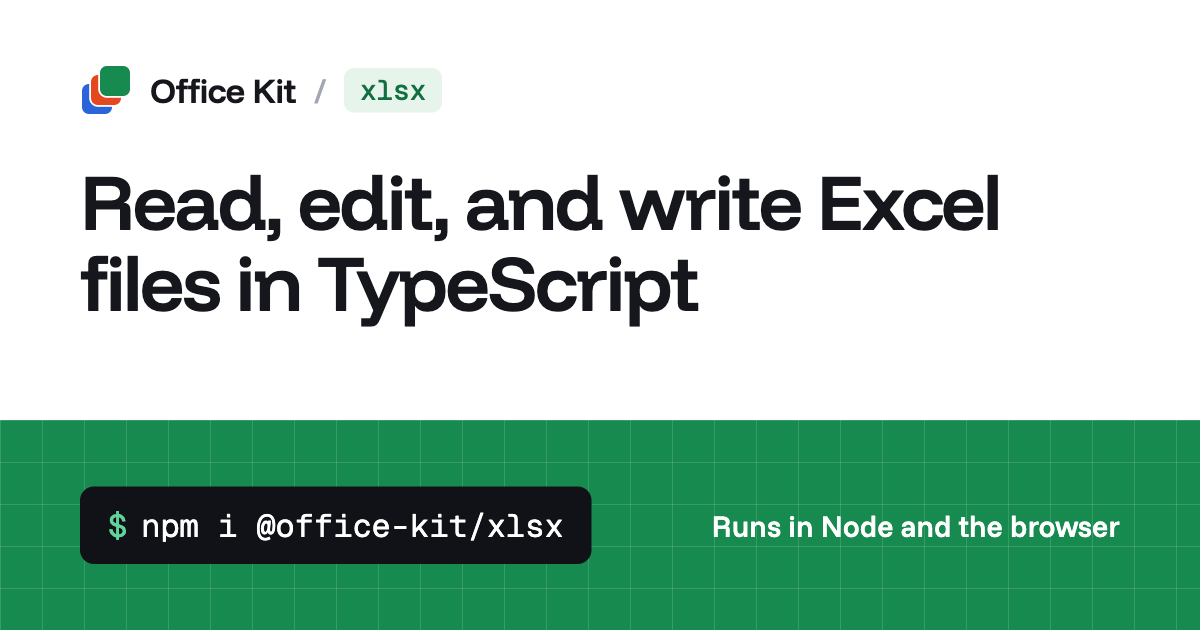
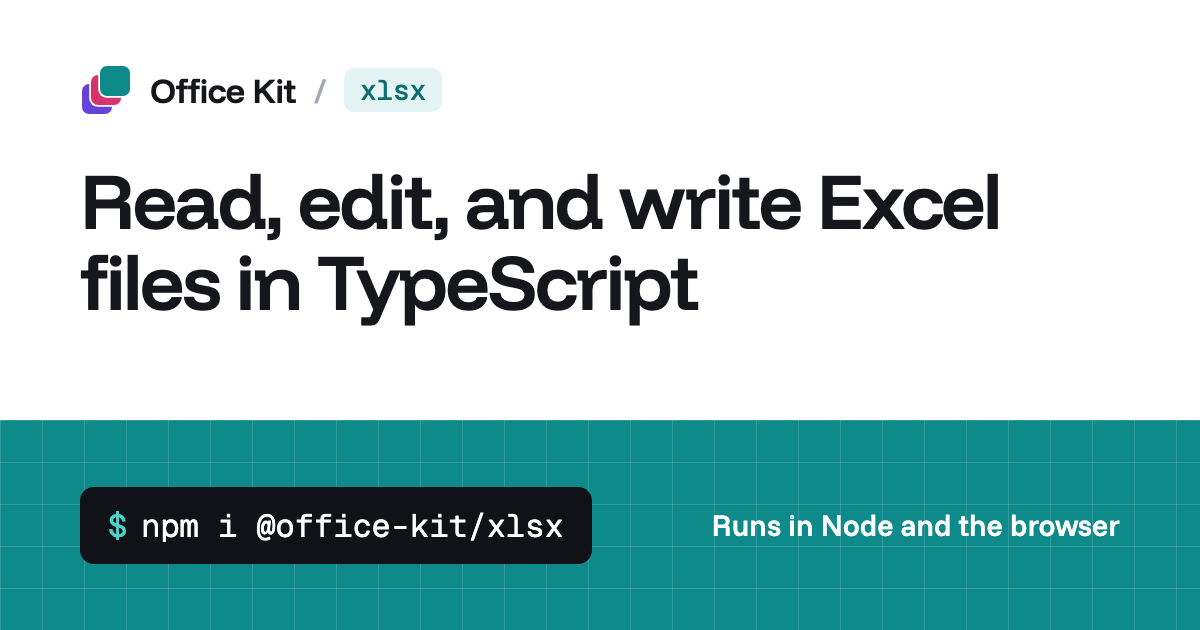
chore(site): pick up the new office-kit brand colors (#296)

diff --git a/site/src/lib/components/SheetGrid.svelte b/site/src/lib/components/SheetGrid.svelte
@@ -173,7 +173,7 @@
     --sheet-rule-strong: #c9cdd6;
     --sheet-ink: #15171c;
     --sheet-ink-2: #5b616e;
-    --sheet-select: #168a4f;
+    --sheet-select: #0f8a8a;
     --sheet-row-h: 28px;
     --sheet-gutter-w: 38px;
     --sheet-scale: 1;
